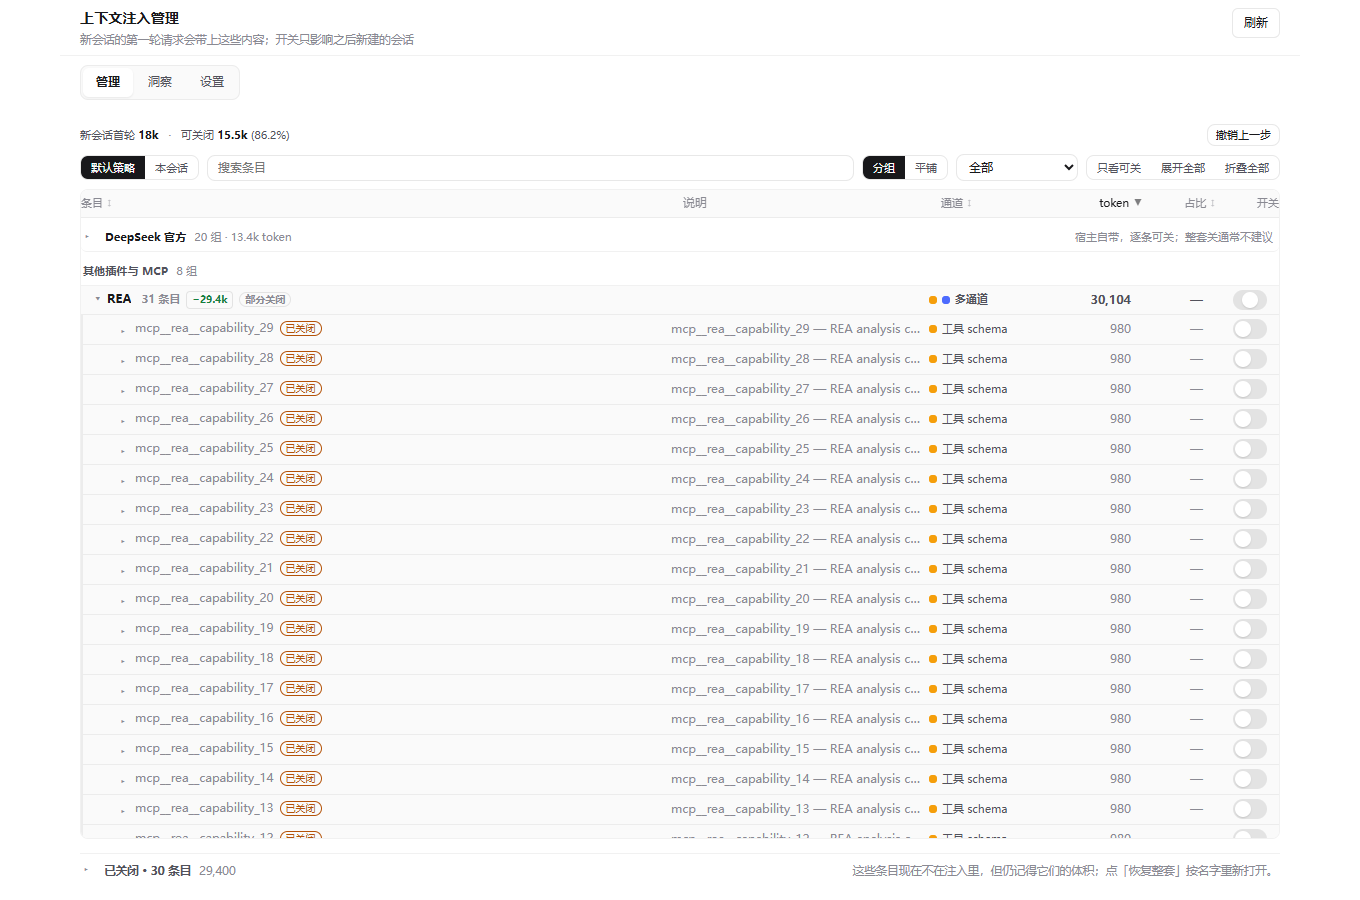
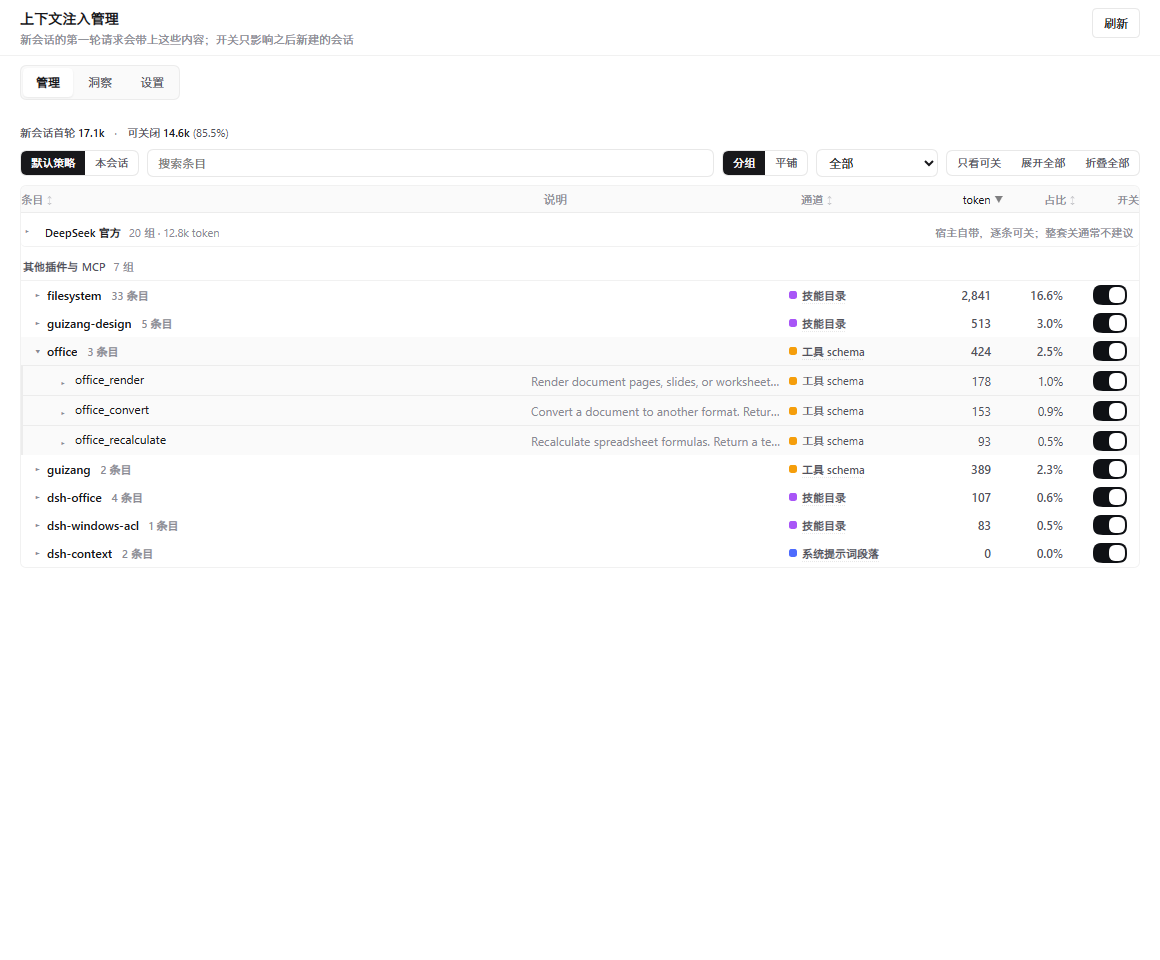
docs(assets): 2.3.0 全量截图重拍 + 标准分发 SOP
所有文档/商店截图与 demo GIF 在 0.2.2-rc.5 隔离实例上重拍（管理/洞察/设置/抽屉/展开/深色/会话页/右栏/设置行），GIF 重录为 3 帧开关+撤销，截图清单仍为 8 张；demo 文案八语言同步为本次实测数字（17.1k -> 14.3k）。新增 docs/DISTRIBUTION.md：GitHub Release + npm + awesome 目录三条标准渠道、每次发版检查表、目录自动更新边界、回滚与 2FA 要求。

[dsh:session=3b68f86f] [dida:6affd294e4b0ed5bb832a7ae]

diff --git a/docs/DISTRIBUTION.md b/docs/DISTRIBUTION.md
@@ -1,0 +1,101 @@
+# 分发 SOP（标准渠道 · 每次发版做什么）
+
+一句话：**两个源头 + 一个目录**。GitHub 是源码、版本与发布说明的源头；npm 是安装与版本事实的源头；
+`awesome-dsh-plugin` 是发现与市场的目录。其余渠道都是这三样的下游缓存，**不需要单独提交**。
+
+## 1. 渠道矩阵
+
+| 层级 | 渠道 | 用户怎么用 | 每次发版要做什么 | 机制（已核实） |
+| --- | --- | --- | --- | --- |
+| 0 源头 | **GitHub 仓库** | `dsh plugin add github:IWHBIWHB/dsh-injection-manager`；读 README / release notes | 只推代码；tag 触发发布 | 仓库带 `dsh.bundle` + `dsh-plugin` topic |
+| 0 源头 | **npm 包** | `dsh plugin add dsh-injection-manager` | CI 自动发布（OIDC trusted publishing + provenance） | 用户版本/下载量的唯一事实源；别人不镜像版本号 |
+| 0 源头 | **Git tag + GitHub Release** | 看更新说明、下载 tgz | 推 `vX.Y.Z` tag，release workflow 自动校验并建 Release | `release.yml`：校验 tag=版本 → 测试 → npm publish → gh release |
+| 1 目录 | **awesome-dsh-plugin** | dsh-market、目录站、catalog index 都从它读 | **首次收录要一次 PR（已完成）**；之后版本/星/下载/截图/更新说明全自动；只有改**描述/分类/url/name/icon/移除**才提 PR，且只改自己那一行 | 条目在 `data/plugins/<owner>__<repo>.yml`；`probe-npm` 每晚刷最新 npm 版本，`probe-updates` 刷 Release notes + commit tail，`probe-stars/downloads` 每日，`probe-screenshots` 从**你仓库的** `screenshots.json` 每晚抓 |
+| 2 下游 | **dsh-market**（DSH 里的可视化市场插件） | 装 `dshmarket` 后在市场里搜/装/更新 | 什么都不用做 | 官方 README：列表来自 awesome registry，安装源限制在 registry 内；实时读 `awesome-dsh-plugin.com/plugins.json` |
+| 2 下游 | **catalog index（官方 Discover 可订阅）** | Plugins → Discover → Add index source 填 `https://cdn.jsdelivr.net/npm/dsh-plugin-catalog/index.json` | 什么都不用做 | awesome 生态发布的 `plugins.json`/index.json；官方 DSH 本身不提供索引（`DSH ships no index source`） |
+| 3 可选 | 自建 index.json（format 1） | 用户把我们的索引 URL 加进 Discover | 仅在想脱离第三方市场、自己控索引时做：静态托管 + 官方 generator | 官方 `docs/user/guide/plugin-market.md`：index 是 UTF-8 JSON，`format: 1`，≤128MiB，用户手动加 URL |
+| 3 可选 | 其他 awesome 列表 | 额外曝光 | 可选 PR，不算标准渠道 | 生态里有多个次级列表，受众小于主目录 |
+| 不做 | 自建插件商店、独立站、公众号分发 | — | — | 与 npm + 目录重复，维护成本归我们 |
+
+结论：**「标准分发」= GitHub Release + npm 包 + 主目录条目**。三者都做完，dsh-market、目录站、
+官方 Discover（通过 catalog index）都会自动跟上；不存在一个需要单独提交的「官方插件市场」入口
+（官方文档明确 `DSH ships no index source`，官方市场在路线图里，落地前以上面三件为准）。
+
+## 2. 每次发版 SOP
+
+### T-3 天：准备
+
+- [ ] 语义版本号：修 bug → patch；新入口/功能 → minor；策略文件/路由契约破坏 → major。
+- [ ] `CHANGELOG.md` 写一节（用户能读懂的「改了什么 + 为什么」）。
+- [ ] `node --test`、`node scripts/self-audit.mjs --strict`、`node scripts/smoke.mjs` 全绿。
+- [ ] UI 变了：连拍 README 截图 → 更新 `screenshots.json`（**1-8 张**、仓库内相对路径、不能 `..`）；
+      目录/市场的截图只会从这份清单抓，多一张少一张都会被整份忽略。
+- [ ] 入口/API/配置变了：同步 README 八语言、`docs/ARCHITECTURE.md`、`docs/COMPATIBILITY.md`、
+      `docs/PERFORMANCE.md`；必要时更新 `engines.dsh` 与 `dsh.compatibility`。
+- [ ] 图标变了：`docs/images/icon-180.png`（180×180 光栅，GitHub 托管）并确保 awesome 条目里的
+      `icon` URL 指向 **master** 分支（本仓库默认分支是 master，不是 main）。
+
+### T-0：发布（约 15 分钟，CI 为主）
+
+```powershell
+cd D:\DSH\dsh-injection-manager
+git add <显式文件>
+git commit -m "feat: ... (X.Y.Z)"
+# 本机 github.com:443 不通时用 Git Data API 推送：node _research/release/push-via-api.mjs
+git push origin master
+git tag vX.Y.Z
+git push origin vX.Y.Z          # 触发 release workflow
+```
+
+CI 会：校验 tag 与 `package.json` 版本一致 → 跑测试 → `npm publish --provenance` → 建 GitHub Release。
+
+### T+0 验证（缺一不可）
+
+- [ ] `npm view dsh-injection-manager version` = 新版本；注意 registry 元数据与 tarball 有 1–5 分钟
+      传播差，刚发布时 `npm install` 可能 404，属正常。
+- [ ] GitHub Release 存在、notes 正确、tgz 附件在；CI 两条 workflow 均 success。
+- [ ] 干净 profile 从 npm 安装 → 五入口探针 16/16 → `node --test` 仍绿。
+- [ ] 若 UI 变了：把重拍后的截图与 README 推上 master（市场夜间抓，不用 PR）。
+- [ ] 若元数据变了：提一个只改自己条目的 awesome PR（见第 3 节）。
+
+### T+1 起：观察与回滚
+
+- 看 issues、npm 周下载、dsh-market 详情页的 trust-check 结果、目录统计（每日刷新）。
+- 坏版本：`npm deprecate dsh-injection-manager@X.Y.Z "reason"` 提示用户，随后发 patch；
+  **不 unpublish**（除非凭据泄露/恶意代码），GitHub Release 保留并追加说明。
+- 安全：tarball 不含凭据；`npm publish` 走仓库 OIDC；npm 账号与 GitHub 账号开 2FA
+  （GitHub 已提示 2026-12-31 前必须开启）。
+
+## 3. 元数据变更 SOP（不影响发版，但影响市场）
+
+| 改了什么 | 要不要 awesome PR | 多久生效 |
+| --- | --- | --- |
+| 版本号、下载量、星数、Release 内容、更新说明 | 不要 | 每晚/每日自动 |
+| 截图 | 不要（改自己仓库 `screenshots.json` 后推送） | 下一次夜间构建 |
+| 描述 / 分类 / 仓库 url / name / icon / 移除条目 | 要，一个只改 `data/plugins/IWHBIWHB__dsh-injection-manager.yml` 的 PR | 合并后下一次构建 |
+| 包名或安装方式 | 要（条目里的 npm/发行包字段） | 合并后 |
+
+## 4. 版本与节奏（建议固定）
+
+- **patch**：修 bug/文档也能周一发；**minor**：功能攒 2–4 周一次；**major**：尽量少，提前在 CHANGELOG
+  写迁移说明。
+- 目录元数据每季度审计一次（描述是否还准、分类是否还贴切、图标/截图是否过期）。
+- 每次发版后在 `docs/RSI.md` 记一行（本轮固定动作），发版记录就是下一轮自评的输入。
+
+## 5. 当前状态（2026-11-20）
+
+| 项 | 状态 |
+| --- | --- |
+| npm | `dsh-injection-manager@2.3.0` 为 latest（provenance 已签） |
+| GitHub | tag `v2.3.0` + Release + tgz 附件；CI/release 两条 workflow success |
+| 目录条目 | 已在 `data/plugins/IWHBIWHB__dsh-injection-manager.yml`（分类 usage）；描述/图标更新 PR #17255 已开、CI pass、等维护者合并 |
+| 截图 | 8 张已重拍（0.2.2-rc.5 隔离实例），`screenshots.json` 合法（1-8 张） |
+| 图标 | `docs/images/icon-180.png`（180×180 PNG，raw 200） |
+| 待办 | 自建 index.json（可选）、次级学习列表（可选）、官方市场落地后复核 |
+
+## 6. 需要拍板的三件事
+
+1. **要不要自建 index.json**：做了的话用户可以在官方 Discover 里直接加我们的索引；不做就依赖
+   dsh-market + catalog index。默认建议：先不做，等官方市场正式发布再评估。
+2. **次级 awesome 列表要不要投**：曝光有限，建议不做，除非有人主动收录。
+3. **发布节奏**：建议 patch 随时、minor 每 2-4 周；确认后写进本文件第 4 节并当作约定。

diff --git a/README.md b/README.md
@@ -118,7 +118,7 @@ composer-chip switch, and about:
 ![Settings tab](docs/images/panel-settings.png)
 
 The sidebar shows the same snapshot compactly (next-session and this-session numbers, switchable
-share), and the composer carries a one-line chip (`83.8k · 36%` — next session's first turn, then
+share), and the composer carries a one-line chip (`17.1k · 85%` — next session's first turn, then
 window occupancy; the second slot falls back to the switchable share when the window is unknown):
 
 ![Right-sidebar panel](docs/images/sidebar-panel.png)
@@ -148,9 +148,9 @@ restart the plugin:
 
 ![Preference row in Settings → General](docs/images/settings-general.png)
 
-Switching the REA suite off moves the next session's first request from 83.8k to 17.1k tokens; Undo
-brings it back (real data, interactions recorded on 2.1.1 — the layout is unchanged since; the images
-above were re-captured on 0.2.2-rc.5):
+Switching a suite off moves the next session's first request from 17.1k to 14.3k tokens; Undo
+brings it back (real data; every screenshot and the GIF were captured on 0.2.2-rc.5 in an isolated
+QA profile):
 
 ![Demo: suite switch and undo](docs/images/demo.gif)
 
@@ -439,6 +439,7 @@ The 设置 tab exposes the same verification behind a button.
 - [Decisions](docs/DECISIONS.md): why the right sidebar replaced `sidebar.panel`, why the settings card writes volatile Config, why the conversation tab is read-only
 - [RSI](docs/RSI.md): the repeatable self-audit loop this project uses between releases
 - [Self-assessment](docs/SELF-ASSESSMENT.md): this release scored against the project's own quality gates, with gaps stated
+- [Distribution](docs/DISTRIBUTION.md) (Chinese): the three standard channels (GitHub Release, npm, awesome-dsh-plugin), what each release must do, what the catalog refreshes by itself, and how to roll back
 - [FAQ](docs/FAQ.md): why `AGENTS.md` cannot be switched off, what the content drawer reads, relation to `dsh-context`
 - [Compatibility](docs/COMPATIBILITY.md): tested versions (0.2.2-rc.1 CLI, 0.2.2-rc.5 Desktop), required APIs, upgrade checks
 - [Performance](docs/PERFORMANCE.md): measured timings for the snapshot, the five entry points and the trend backfill

diff --git a/README.zh.md b/README.zh.md
@@ -102,7 +102,7 @@ MCP 的环境，230 个工具声明就能吃掉首轮 84k 里的约 67k。这些
 ![设置页](docs/images/panel-settings.png)
 
 侧栏是同一份数据的紧凑视图（新会话首轮与本会话两个数、可关占比）；输入框旁有一行
-「83.8k · 36%」徽标（新会话首轮 · 窗口占用，窗口未知时才显示可关占比）：
+「17.1k · 85%」徽标（新会话首轮 · 窗口占用，窗口未知时才显示可关占比）：
 
 ![右侧边栏面板](docs/images/sidebar-panel.png)
 
@@ -129,8 +129,8 @@ MCP 的环境，230 个工具声明就能吃掉首轮 84k 里的约 67k。这些
 
 ![设置 → 通用设置里的偏好行](docs/images/settings-general.png)
 
-关掉 REA 整套后，新会话首轮从 83.8k 降到 17.1k，再撤销回来（真实数据；GIF 摄于 2.1.1，布局未变，
-上面三张新图摄于 0.2.2-rc.5）：
+关掉一套套件后，新会话首轮从 17.1k 降到 14.3k，再撤销回来（真实数据；全部截图与 GIF 均摄于
+0.2.2-rc.5 的隔离实例）：
 
 ![演示：整组开关与撤销](docs/images/demo.gif)
 
@@ -383,6 +383,7 @@ Plugins → dsh-injection-manager → Configuration 里也有）：
   Config、会话标签页为什么只读
 - [RSI](docs/RSI.md)：这个项目在版本之间用的可重复自审循环
 - [自评](docs/SELF-ASSESSMENT.md)：对照本项目质量门槛给这一版打分，差距直说
+- [分发 SOP](docs/DISTRIBUTION.md)：标准渠道（GitHub Release、npm、awesome 目录）、每次发版动作、目录自动更新的边界、回滚方式
 - [常见问题](docs/FAQ.md)：AGENTS.md 为什么关不掉、内容抽屉会读什么、和 dsh-context 的关系
 - [兼容性](docs/COMPATIBILITY.md)：已验证版本（0.2.2-rc.1 CLI、0.2.2-rc.5 Desktop）、依赖接口、升级排查
 - [性能](docs/PERFORMANCE.md)：快照、五个入口与趋势回填的实测耗时

diff --git a/README.fr.md b/README.fr.md
@@ -128,7 +128,7 @@ replié, l’interrupteur de la puce du compositeur et la section Notes :
 ![Onglet Réglages](docs/images/panel-settings.png)
 
 La barre latérale montre le même instantané de façon compacte (chiffres de la prochaine session et
-de cette session, part désactivable), et le compositeur porte une puce sur une ligne (`83.8k · 36%`
+de cette session, part désactivable), et le compositeur porte une puce sur une ligne (`17.1k · 85%`
 — premier tour de la prochaine session, puis occupation de la fenêtre ; le second emplacement
 retombe sur la part désactivable quand la fenêtre est inconnue) :
 
@@ -161,9 +161,9 @@ un s’applique immédiatement et ne redémarre pas le plugin :
 
 ![Ligne de préférences dans Réglages → Général](docs/images/settings-general.png)
 
-Désactiver la suite REA fait passer la première requête de la prochaine session de 83.8k à 17.1k
-tokens ; Annuler la rétablit (données réelles, interactions enregistrées sur 2.1.1 — la disposition
-n’a pas changé depuis ; les images ci-dessus ont été reprises sur 0.2.2-rc.5) :
+Désactiver une suite fait passer la première requête de la prochaine session de 17.1k à 14.3k
+tokens ; Annuler la rétablit (données réelles ; toutes les captures et le GIF ont été réalisés sur
+0.2.2-rc.5, dans un profil QA isolé) :
 
 ![Démo : interrupteur de suite et annulation](docs/images/demo.gif)
 

diff --git a/README.es.md b/README.es.md
@@ -127,7 +127,7 @@ plegado, el interruptor del chip del compositor y acerca de:
 
 La barra lateral muestra la misma instantánea de forma compacta (los números de la próxima sesión y
 de esta sesión, la proporción conmutable), y el compositor lleva un chip de una línea
-(`83.8k · 36%`: primer turno de la próxima sesión y después ocupación de la ventana; el segundo
+(`17.1k · 85%`: primer turno de la próxima sesión y después ocupación de la ventana; el segundo
 valor recurre a la proporción conmutable cuando la ventana es desconocida):
 
 ![Panel de la barra lateral derecha](docs/images/sidebar-panel.png)
@@ -159,9 +159,9 @@ desactivar uno se aplica de inmediato y no reinicia el plugin:
 
 ![Fila de preferencias en Ajustes → General](docs/images/settings-general.png)
 
-Desactivar la suite REA mueve la primera petición de la próxima sesión de 83.8k a 17.1k tokens;
-Deshacer la devuelve (datos reales, interacciones grabadas en 2.1.1; el diseño no ha cambiado desde
-entonces; las imágenes de arriba se volvieron a capturar en 0.2.2-rc.5):
+Desactivar una suite mueve la primera petición de la próxima sesión de 17.1k a 14.3k tokens;
+Deshacer la devuelve (datos reales; todas las capturas y el GIF se grabaron en 0.2.2-rc.5, en un
+perfil de QA aislado):
 
 ![Demostración: interruptor de suite y deshacer](docs/images/demo.gif)
 

diff --git a/README.de.md b/README.de.md
@@ -129,7 +129,7 @@ eingeklappte Präfix/Suffix, der Schalter für den Chip am Eingabefeld und Hinwe
 ![Einstellungen-Tab](docs/images/panel-settings.png)
 
 Die Seitenleiste zeigt denselben Snapshot kompakt (Zahlen der nächsten und dieser Sitzung,
-abschaltbarer Anteil), und am Eingabefeld hängt ein einzeiliger Chip (`83.8k · 36%` — erste Runde
+abschaltbarer Anteil), und am Eingabefeld hängt ein einzeiliger Chip (`17.1k · 85%` — erste Runde
 der nächsten Sitzung, dann Auslastung des Kontextfensters; ist das Fenster unbekannt, zeigt der
 zweite Slot den abschaltbaren Anteil):
 
@@ -161,9 +161,9 @@ sofort und startet das Plugin nicht neu:
 
 ![Einstellungszeile unter Einstellungen → Allgemein](docs/images/settings-general.png)
 
-Das Abschalten der REA-Suite verschiebt die erste Anfrage der nächsten Sitzung von 83.8k auf
-17.1k Token; Rückgängig bringt sie zurück (echte Daten, Interaktionen aufgezeichnet auf 2.1.1 —
-das Layout ist seitdem unverändert; die Bilder oben wurden auf 0.2.2-rc.5 neu erstellt):
+Das Abschalten einer Suite verschiebt die erste Anfrage der nächsten Sitzung von 17.1k auf
+14.3k Token; Rückgängig bringt sie zurück (echte Daten; alle Screenshots und das GIF wurden auf
+0.2.2-rc.5 in einem isolierten QA-Profil aufgenommen):
 
 ![Demo: Suite-Schalter und Rückgängig](docs/images/demo.gif)
 

diff --git a/README.pt.md b/README.pt.md
@@ -125,7 +125,7 @@ recolhido, o interruptor do chip do campo de entrada e sobre:
 ![Aba Ajustes](docs/images/panel-settings.png)
 
 A barra lateral mostra o mesmo instantâneo de forma compacta (números da próxima sessão e desta
-sessão, fatia desativável), e o campo de entrada carrega um chip de uma linha (`83.8k · 36%` —
+sessão, fatia desativável), e o campo de entrada carrega um chip de uma linha (`17.1k · 85%` —
 primeiro turno da próxima sessão e, depois, ocupação da janela; o segundo campo recorre à fatia
 desativável quando a janela é desconhecida):
 
@@ -156,9 +156,9 @@ hora e não reinicia o plugin:
 
 ![Linha de preferências em Ajustes → Geral](docs/images/settings-general.png)
 
-Desligar a suíte REA leva a primeira requisição da próxima sessão de 83.8k para 17.1k tokens;
-Desfazer traz de volta (dados reais, interações gravadas na 2.1.1 — o layout não mudou desde então;
-as imagens acima foram capturadas de novo na 0.2.2-rc.5):
+Desligar uma suíte leva a primeira requisição da próxima sessão de 17.1k para 14.3k tokens;
+Desfazer traz de volta (dados reais; todas as capturas e o GIF foram gravados na 0.2.2-rc.5, em um
+perfil de QA isolado):
 
 ![Demonstração: interruptor de suíte e desfazer](docs/images/demo.gif)
 
